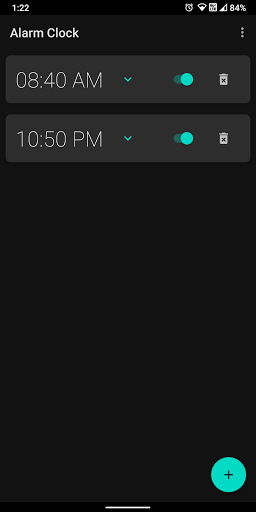
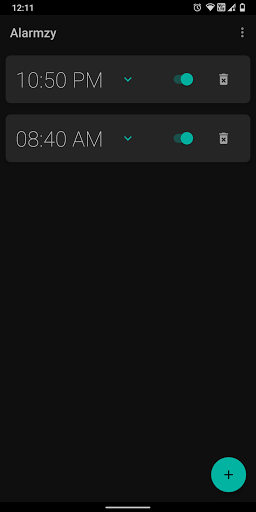
Alarmzy: Refactor package to alarmzy

diff --git a/app/src/main/java/com/pk/alarmzy/alarm/helper/NotificationHelper.java b/app/src/main/java/com/pk/alarmzy/alarm/helper/NotificationHelper.java
@@ -1,4 +1,4 @@
-package com.pk.alarmclock.alarm.helper;
+package com.pk.alarmzy.alarm.helper;
 
 import android.app.Notification;
 import android.app.NotificationChannel;
@@ -13,11 +13,11 @@ import android.util.Log;
 import androidx.core.app.NotificationCompat;
 import androidx.preference.PreferenceManager;
 
-import com.pk.alarmclock.BuildConfig;
-import com.pk.alarmclock.R;
-import com.pk.alarmclock.alarm.AlarmTriggerActivity;
-import com.pk.alarmclock.misc.AlarmBroadcastReceiver;
-import com.pk.alarmclock.misc.MyApplication;
+import com.pk.alarmzy.BuildConfig;
+import com.pk.alarmzy.R;
+import com.pk.alarmzy.alarm.AlarmTriggerActivity;
+import com.pk.alarmzy.misc.AlarmBroadcastReceiver;
+import com.pk.alarmzy.misc.MyApplication;
 
 import java.text.SimpleDateFormat;
 import java.util.Locale;
@@ -39,12 +39,12 @@ public class NotificationHelper {
         mNotifyManager = (NotificationManager) mContext.getSystemService(Context.NOTIFICATION_SERVICE);
 
         NotificationChannel notificationChannel = new NotificationChannel(
-                PRIMARY_CHANNEL_ID, "Alarm Clock1", NotificationManager.IMPORTANCE_HIGH);
+                PRIMARY_CHANNEL_ID, "Alarmzy", NotificationManager.IMPORTANCE_HIGH);
 
         notificationChannel.enableLights(true);
         notificationChannel.setLightColor(Color.GREEN);
         notificationChannel.enableVibration(true);
-        notificationChannel.setDescription("Notifications From Alarm1");
+        notificationChannel.setDescription("Notifications From Alarmzy");
         mNotifyManager.createNotificationChannel(notificationChannel);
 
         Log.i(TAG, "createNotificationChannel: Channel Created");

diff --git a/app/src/main/java/com/pk/alarmzy/alarm/AlarmTriggerActivity.java b/app/src/main/java/com/pk/alarmzy/alarm/AlarmTriggerActivity.java
@@ -1,4 +1,4 @@
-package com.pk.alarmclock.alarm;
+package com.pk.alarmzy.alarm;
 
 import android.app.Application;
 import android.app.NotificationManager;
@@ -15,14 +15,14 @@ import androidx.appcompat.app.AppCompatActivity;
 import androidx.preference.PreferenceManager;
 
 import com.ncorti.slidetoact.SlideToActView;
-import com.pk.alarmclock.R;
-import com.pk.alarmclock.alarm.db.AlarmEntity;
-import com.pk.alarmclock.alarm.db.AlarmRepository;
-import com.pk.alarmclock.alarm.helper.AlarmHelper;
-import com.pk.alarmclock.alarm.helper.NotificationHelper;
-import com.pk.alarmclock.alarm.services.AlarmService;
-import com.pk.alarmclock.misc.DaysOfWeek;
-import com.pk.alarmclock.misc.MyApplication;
+import com.pk.alarmzy.R;
+import com.pk.alarmzy.alarm.db.AlarmEntity;
+import com.pk.alarmzy.alarm.db.AlarmRepository;
+import com.pk.alarmzy.alarm.helper.AlarmHelper;
+import com.pk.alarmzy.alarm.helper.NotificationHelper;
+import com.pk.alarmzy.alarm.services.AlarmService;
+import com.pk.alarmzy.misc.DaysOfWeek;
+import com.pk.alarmzy.misc.MyApplication;
 
 import java.text.SimpleDateFormat;
 import java.util.Calendar;

diff --git a/app/src/main/java/com/pk/alarmzy/MainActivity.java b/app/src/main/java/com/pk/alarmzy/MainActivity.java
@@ -1,4 +1,4 @@
-package com.pk.alarmclock;
+package com.pk.alarmzy;
 
 import android.app.TimePickerDialog;
 import android.content.Intent;
@@ -21,12 +21,12 @@ import androidx.recyclerview.widget.RecyclerView;
 
 import com.google.android.material.floatingactionbutton.FloatingActionButton;
 import com.google.android.material.snackbar.Snackbar;
-import com.pk.alarmclock.alarm.db.AlarmEntity;
-import com.pk.alarmclock.alarm.db.AlarmViewModel;
-import com.pk.alarmclock.alarm.helper.AlarmHelper;
-import com.pk.alarmclock.alarm.helper.NotificationHelper;
-import com.pk.alarmclock.alarm.recycler.AlarmRecViewAdapter;
-import com.pk.alarmclock.settings.SettingsActivity;
+import com.pk.alarmzy.alarm.db.AlarmEntity;
+import com.pk.alarmzy.alarm.db.AlarmViewModel;
+import com.pk.alarmzy.alarm.helper.AlarmHelper;
+import com.pk.alarmzy.alarm.helper.NotificationHelper;
+import com.pk.alarmzy.alarm.recycler.AlarmRecViewAdapter;
+import com.pk.alarmzy.settings.SettingsActivity;
 
 import java.text.SimpleDateFormat;
 import java.util.Calendar;

diff --git a/app/src/main/java/com/pk/alarmzy/alarm/recycler/AlarmRecViewHolder.java b/app/src/main/java/com/pk/alarmzy/alarm/recycler/AlarmRecViewHolder.java
@@ -1,4 +1,4 @@
-package com.pk.alarmclock.alarm.recycler;
+package com.pk.alarmzy.alarm.recycler;
 
 import android.app.AlertDialog;
 import android.content.Context;
@@ -20,12 +20,12 @@ import androidx.recyclerview.widget.RecyclerView;
 
 import com.google.android.material.checkbox.MaterialCheckBox;
 import com.google.android.material.snackbar.Snackbar;
-import com.pk.alarmclock.R;
-import com.pk.alarmclock.alarm.db.AlarmEntity;
-import com.pk.alarmclock.alarm.db.AlarmRepository;
-import com.pk.alarmclock.alarm.helper.AlarmHelper;
-import com.pk.alarmclock.misc.DaysOfWeek;
-import com.pk.alarmclock.misc.MyApplication;
+import com.pk.alarmzy.R;
+import com.pk.alarmzy.alarm.db.AlarmEntity;
+import com.pk.alarmzy.alarm.db.AlarmRepository;
+import com.pk.alarmzy.alarm.helper.AlarmHelper;
+import com.pk.alarmzy.misc.DaysOfWeek;
+import com.pk.alarmzy.misc.MyApplication;
 
 import java.text.SimpleDateFormat;
 import java.util.Arrays;

diff --git a/app/src/main/java/com/pk/alarmzy/alarm/helper/AlarmHelper.java b/app/src/main/java/com/pk/alarmzy/alarm/helper/AlarmHelper.java
@@ -1,4 +1,4 @@
-package com.pk.alarmclock.alarm.helper;
+package com.pk.alarmzy.alarm.helper;
 
 import android.app.AlarmManager;
 import android.app.Application;
@@ -10,12 +10,12 @@ import android.util.Log;
 
 import androidx.preference.PreferenceManager;
 
-import com.pk.alarmclock.R;
-import com.pk.alarmclock.alarm.db.AlarmEntity;
-import com.pk.alarmclock.alarm.db.AlarmRepository;
-import com.pk.alarmclock.alarm.services.AlarmService;
-import com.pk.alarmclock.misc.DaysOfWeek;
-import com.pk.alarmclock.misc.MyApplication;
+import com.pk.alarmzy.R;
+import com.pk.alarmzy.alarm.db.AlarmEntity;
+import com.pk.alarmzy.alarm.db.AlarmRepository;
+import com.pk.alarmzy.alarm.services.AlarmService;
+import com.pk.alarmzy.misc.DaysOfWeek;
+import com.pk.alarmzy.misc.MyApplication;
 
 import java.util.Arrays;
 import java.util.Calendar;

diff --git a/app/src/main/java/com/pk/alarmzy/alarm/services/ReSchedAlarmService.java b/app/src/main/java/com/pk/alarmzy/alarm/services/ReSchedAlarmService.java
@@ -1,4 +1,4 @@
-package com.pk.alarmclock.alarm.services;
+package com.pk.alarmzy.alarm.services;
 
 import android.content.Context;
 import android.content.Intent;
@@ -7,10 +7,10 @@ import android.util.Log;
 import androidx.annotation.NonNull;
 import androidx.core.app.JobIntentService;
 
-import com.pk.alarmclock.alarm.db.AlarmEntity;
-import com.pk.alarmclock.alarm.db.AlarmRepository;
-import com.pk.alarmclock.alarm.helper.AlarmHelper;
-import com.pk.alarmclock.misc.MyApplication;
+import com.pk.alarmzy.alarm.db.AlarmEntity;
+import com.pk.alarmzy.alarm.db.AlarmRepository;
+import com.pk.alarmzy.alarm.helper.AlarmHelper;
+import com.pk.alarmzy.misc.MyApplication;
 
 import java.util.List;
 

diff --git a/app/src/main/java/com/pk/alarmzy/misc/AlarmBroadcastReceiver.java b/app/src/main/java/com/pk/alarmzy/misc/AlarmBroadcastReceiver.java
@@ -1,4 +1,4 @@
-package com.pk.alarmclock.misc;
+package com.pk.alarmzy.misc;
 
 import android.app.AlarmManager;
 import android.app.NotificationManager;
@@ -8,9 +8,9 @@ import android.content.Context;
 import android.content.Intent;
 import android.util.Log;
 
-import com.pk.alarmclock.BuildConfig;
-import com.pk.alarmclock.alarm.services.AlarmService;
-import com.pk.alarmclock.alarm.services.ReSchedAlarmService;
+import com.pk.alarmzy.BuildConfig;
+import com.pk.alarmzy.alarm.services.AlarmService;
+import com.pk.alarmzy.alarm.services.ReSchedAlarmService;
 
 import java.util.Objects;
 

diff --git a/app/src/main/java/com/pk/alarmzy/alarm/db/AlarmRepository.java b/app/src/main/java/com/pk/alarmzy/alarm/db/AlarmRepository.java
@@ -1,13 +1,13 @@
-package com.pk.alarmclock.alarm.db;
+package com.pk.alarmzy.alarm.db;
 
 import android.app.Application;
 import android.util.Log;
 
 import androidx.lifecycle.LiveData;
 
-import com.pk.alarmclock.alarm.helper.AlarmHelper;
-import com.pk.alarmclock.misc.DaysOfWeek;
-import com.pk.alarmclock.misc.MyApplication;
+import com.pk.alarmzy.alarm.helper.AlarmHelper;
+import com.pk.alarmzy.misc.DaysOfWeek;
+import com.pk.alarmzy.misc.MyApplication;
 
 import java.util.List;
 import java.util.concurrent.Executors;

diff --git a/app/src/main/java/com/pk/alarmzy/alarm/recycler/AlarmRecViewAdapter.java b/app/src/main/java/com/pk/alarmzy/alarm/recycler/AlarmRecViewAdapter.java
@@ -1,4 +1,4 @@
-package com.pk.alarmclock.alarm.recycler;
+package com.pk.alarmzy.alarm.recycler;
 
 import android.view.LayoutInflater;
 import android.view.View;
@@ -7,8 +7,8 @@ import android.view.ViewGroup;
 import androidx.annotation.NonNull;
 import androidx.recyclerview.widget.RecyclerView;
 
-import com.pk.alarmclock.R;
-import com.pk.alarmclock.alarm.db.AlarmEntity;
+import com.pk.alarmzy.R;
+import com.pk.alarmzy.alarm.db.AlarmEntity;
 
 import java.util.ArrayList;
 import java.util.List;

diff --git a/app/src/main/java/com/pk/alarmzy/alarm/services/AlarmService.java b/app/src/main/java/com/pk/alarmzy/alarm/services/AlarmService.java
@@ -1,4 +1,4 @@
-package com.pk.alarmclock.alarm.services;
+package com.pk.alarmzy.alarm.services;
 
 import android.app.Service;
 import android.content.Context;
@@ -18,7 +18,7 @@ import android.util.Log;
 import androidx.annotation.Nullable;
 import androidx.preference.PreferenceManager;
 
-import com.pk.alarmclock.alarm.helper.NotificationHelper;
+import com.pk.alarmzy.alarm.helper.NotificationHelper;
 
 // Note: Define service in AndroidManifest.xml
 

diff --git a/app/src/main/java/com/pk/alarmzy/settings/SettingsFragment.java b/app/src/main/java/com/pk/alarmzy/settings/SettingsFragment.java
@@ -1,10 +1,10 @@
-package com.pk.alarmclock.settings;
+package com.pk.alarmzy.settings;
 
 import android.os.Bundle;
 
 import androidx.preference.PreferenceFragmentCompat;
 
-import com.pk.alarmclock.R;
+import com.pk.alarmzy.R;
 
 public class SettingsFragment extends PreferenceFragmentCompat {
 

diff --git a/app/src/main/java/com/pk/alarmzy/alarm/db/AlarmDao.java b/app/src/main/java/com/pk/alarmzy/alarm/db/AlarmDao.java
@@ -1,4 +1,4 @@
-package com.pk.alarmclock.alarm.db;
+package com.pk.alarmzy.alarm.db;
 
 import androidx.lifecycle.LiveData;
 import androidx.room.Dao;
